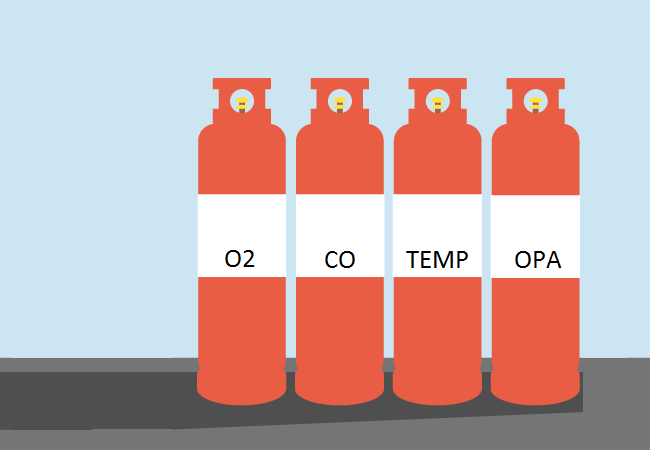
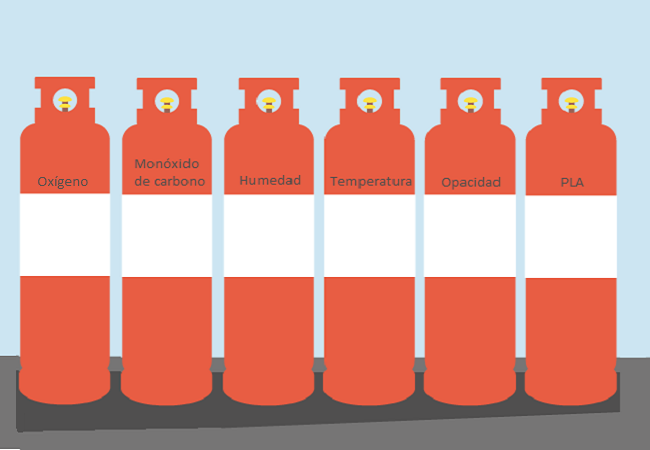
Nueva versión de la app
# Se ha reconstruido la aplicación utilizando una estructura basada en tres frames. La imagen se añade en Canvas para que poder escribir sobre ella con facilidad

#Sin avances en la funcionalidad

#Se modifica la imagen para mostrar más información

diff --git a/TestUI.py b/TestUI.py
@@ -1,50 +1,58 @@
 import minimalmodbus
 from tkinter import *
-from tkinter import ttk, messagebox
+from tkinter import ttk
 import serial.tools.list_ports
 from tkinter import messagebox
 
 
-class BandejasApp():
+class BandejasApp:
 
-    def __init__(self, parent):
-        self.parent = parent
+    def __init__(self):
+        super(BandejasApp, self).__init__()
+        self.parent = Tk()
+        self.parent.resizable(width='false', height='false')
+        self.parent.geometry('1024x600')
+
+        # Añadir Frame para la imagen y colocar imagen
+        # self.bottomframe = Frame(self.parent, height=450, width=650)
+        # self.filename = PhotoImage(file="Gases.png")
+        # self.picture = Label(self.bottomframe, image=self.filename)
+        # self.picture.place(x=0, y=0, relwidth=1, relheight=1)
+        # self.bottomframe.grid(column=3, row=3)
+        # self.bottomframe.pack()
+        self.parent.mainloop()
 
         # Preguntamos por los puertos COM Disponibles
-        ports = serial.tools.list_ports.comports(include_links=False)
-        #TEST
+        ports = serial.tools.list_ports.comports(include_links=FALSE)
+        # TEST
         print(ports)
-
-        # Añadir imagen de fondo a la pantalla
-        self.parent.resizable(width='False', height='False')
-        self.parent.geometry('650x450')
-        self.filename = PhotoImage(file="Gases.png")
-        self.background_label = Label(self.parent, image=self.filename)
-        self.background_label.place(x=0, y=0, relwidth=1, relheight=1)
 
         # Creamos los widgets que forman la UI
         Label(self.parent, text='Puerto').grid(row=0, column=0)
-        Label(self.parent, text='SEN_01').grid(row=2, column=0)
-        Label(self.parent, text='SEN_02').grid(row=3, column=0)
-        Label(self.parent, text='SEN_03').grid(row=4, column=0)
-        Label(self.parent, text='SEN_04').grid(row=5, column=0)
-        Label(self.parent, text='SEN_05').grid(row=6, column=0)
-        Label(self.parent, text='SEN_06').grid(row=7, column=0)
-        Label(self.parent, text='SEN_07').grid(row=8, column=0)
-        Label(self.parent, text='SEN_08').grid(row=9, column=0)
-        Label(self.parent, text='FA_VIS').grid(row=10, column=0)
-        Label(self.parent, text='FAL_AD').grid(row=11, column=0)
-        Label(self.parent, text='FAL_AD_AU').grid(row=12, column=0)
-        Label(self.parent, text='FA_I_1').grid(row=13, column=0)
-        Label(self.parent, text='FA_I_2').grid(row=14, column=0)
-        Label(self.parent, text='FL_VIS').grid(row=15, column=0)
-        Label(self.parent, text='FA_GEN').grid(row=16, column=0)
-        Label(self.parent, text='FA_ASP').grid(row=17, column=0)
-        self.puertos = ttk.Combobox(self.parent, state="readonly")
-        self.puertos["values"] = ports
+        Label(self.parent, text='sen_01').grid(row=2, column=0)
+        Label(self.parent, text='sen_02').grid(row=3, column=0)
+        Label(self.parent, text='sen_03').grid(row=4, column=0)
+        Label(self.parent, text='sen_04').grid(row=5, column=0)
+        Label(self.parent, text='sen_05').grid(row=6, column=0)
+        Label(self.parent, text='sen_06').grid(row=7, column=0)
+        Label(self.parent, text='sen_07').grid(row=8, column=0)
+        Label(self.parent, text='sen_08').grid(row=9, column=0)
+        Label(self.parent, text='fa_vis').grid(row=10, column=0)
+        Label(self.parent, text='fal_ad').grid(row=11, column=0)
+        Label(self.parent, text='fal_ad_au').grid(row=12, column=0)
+        Label(self.parent, text='fa_i_1').grid(row=13, column=0)
+        Label(self.parent, text='fa_i_2').grid(row=14, column=0)
+        Label(self.parent, text='fl_vis').grid(row=15, column=0)
+        Label(self.parent, text='fa_gen').grid(row=16, column=0)
+        Label(self.parent, text='fa_asp').grid(row=17, column=0)
+
+        self.combo1 = ttk.Combobox(self.parent, state="readonly")
+        self.combo1["values"] = ports
+
         # for x in ports:
         #    self.puertos.insert(END, x)
-        self.puertos.grid(row=0, column=1)
+
+        self.combo1.grid(row=0, column=1)
         Label(self.parent, text='Esclavo').grid(row=0, column=2)
         self.parent.ent2 = Entry(self.parent)
         self.parent.ent2.grid(row=0, column=3)
@@ -52,16 +60,14 @@ class BandejasApp():
         self.conn_button.grid(row=0, column=4)
         self.parent.grid()
 
-
     def conect(self):
-        '''
-       Creacion de la comunicación RTU y se mantendrá abierta hasta
-       que se cierre la aplicación
-       '''
-        #guardo sólo la primera palabra del string
-        puerto = str(self.puertos.get()).split()[0]
+        # Creacion de la comunicación RTU y se mantendrá abierta hasta
+        # que se cierre la aplicación
+
+        # guardo sólo la primera palabra del string
+        puerto = str(self.combo1.get()).split()[0]
         slave = int(self.parent.ent2.get())
-        #TEST
+        # TEST
         print(puerto, "  ", slave)
         self.instrument = minimalmodbus.Instrument(puerto, slave, mode='rtu')
         self.instrument.serial.baudrate = 9600  # Baud
@@ -70,29 +76,29 @@ class BandejasApp():
         self.instrument.serial.stopbits = 1
         self.instrument.close_port_after_each_call = FALSE
         self.refresh_data()
-        #datum=[SEN_01, SEN_02, SEN_03, SEN_04, SEN_05, SEN_06, SEN_07, SEN_08, SEN_FA_VIS, SEN_FAL_AD, SEN_FAL_AD_AU, SEN_FA_I_1, SEN_FA_I_2, SEN_FL_VIS, SEN_FA_GEN, SEN_FA_ASP]
+        # datum=[sen_01, sen_02, sen_03, sen_04, sen_05, sen_06, sen_07, sen_08, sen_fa_vis, sen_faL_AD, sen_faL_AD_AU, sen_fa_I_1, sen_fa_I_2, sen_fl_vis, sen_fa_gen, sen_fa_asp]
 
     def refresh_data(self):
 
         print("Dentro de la función de lectura de datos")
-        SEN_01 = self.leer_registro(4096, 0, 4)  # Read Analog Input Register (HR)
-        SEN_02 = self.leer_registro(4097, 0, 4)
-        SEN_03 = self.leer_registro(4098, 0, 4)
-        SEN_04 = self.leer_registro(4099, 0, 4)
-        SEN_05 = self.leer_registro(4100, 0, 4)
-        SEN_06 = self.leer_registro(4101, 0, 4)
-        SEN_07 = self.leer_registro(4102, 0, 4)
-        SEN_08 = self.leer_registro(4103, 0, 4)
-        FA_VIS = self.leer_registro(4352, 0, 4)
-        FAL_AD = self.leer_registro(4353, 0, 4)
-        FAL_AD_AU = self.leer_registro(4354, 0, 4)
-        FA_I_1 = self.leer_registro(4355, 0, 4)
-        FA_I_2 = self.leer_registro(4356, 0, 4)
-        FL_VIS = self.leer_registro(4357, 0, 4)
-        FA_GEN = self.leer_registro(4358, 0, 4)
-        FA_ASP = self.leer_registro(4359, 0, 4)
-        print(SEN_01, SEN_02, SEN_03, SEN_04, SEN_05, SEN_06, SEN_07, SEN_08, FA_VIS, FAL_AD,
-        FAL_AD_AU, FA_I_1, FA_I_2, FL_VIS, FA_GEN, FA_ASP)
+        sen_01 = self.leer_registro(4096, 0, 4)  # Read Analog Input Register (HR)
+        sen_02 = self.leer_registro(4097, 0, 4)
+        sen_03 = self.leer_registro(4098, 0, 4)
+        sen_04 = self.leer_registro(4099, 0, 4)
+        sen_05 = self.leer_registro(4100, 0, 4)
+        sen_06 = self.leer_registro(4101, 0, 4)
+        sen_07 = self.leer_registro(4102, 0, 4)
+        sen_08 = self.leer_registro(4103, 0, 4)
+        fa_vis = self.leer_registro(4352, 0, 4)
+        fal_ad = self.leer_registro(4353, 0, 4)
+        fal_ad_au = self.leer_registro(4354, 0, 4)
+        fa_i_1 = self.leer_registro(4355, 0, 4)
+        fa_i_2 = self.leer_registro(4356, 0, 4)
+        fl_vis = self.leer_registro(4357, 0, 4)
+        fa_gen = self.leer_registro(4358, 0, 4)
+        fa_asp = self.leer_registro(4359, 0, 4)
+        print(sen_01, sen_02, sen_03, sen_04, sen_05, sen_06, sen_07, sen_08, fa_vis, fal_ad,
+              fal_ad_au, fa_i_1, fa_i_2, fl_vis, fa_gen, fa_asp)
 
     def leer_registro(self, reg, dec, fun):
 
@@ -102,7 +108,5 @@ class BandejasApp():
         except IOError:
             messagebox.showinfo("Algo ha ido mal al leer el registro: ", reg)
 
-if __name__ == '__main__':
-    root = Tk()
-    app = BandejasApp(root)
-    root.mainloop()
+
+app = BandejasApp()

diff --git a/bandejas_app.py b/bandejas_app.py
@@ -1,0 +1,137 @@
+from tkinter import *
+import minimalmodbus
+import serial.tools.list_ports
+from tkinter import ttk
+import tkinter as tk
+from tkinter import messagebox
+
+class bandejas_app():
+
+	def __init__(self):
+		super(bandejas_app, self).__init__()
+		self.main_window = Tk()
+		self.main_window.resizable(width='FALSE', height='FALSE')
+		#self.main_window.geometry('1024x600')
+		self.frame1 = Frame(self.main_window, bg='grey', padx=5, pady=5, height=45, width=1024)
+		self.frame2 = Frame(self.main_window, bg='grey', padx=5, pady=5)
+		self.frame3 = Frame(self.main_window, bg='grey', padx=5, pady=5, height=450, width=650)
+		
+		# Preguntamos por los puertos COM Disponibles
+		ports = serial.tools.list_ports.comports(include_links=FALSE)
+		# TEST
+		print(ports)
+
+		# Creamos los widgets que forman el frame1
+		Label(self.frame1, text='Puerto', bg="grey").grid(row=0, column=0)
+		self.combo1 = ttk.Combobox(self.frame1, state="readonly")
+		self.combo1["values"] = ports
+		self.combo1.grid(row=0, column=1)
+		Label(self.frame1, text='Esclavo', bg="grey").grid(row=0, column=2)
+		self.ent2 = Entry(self.frame1)
+		self.ent2.grid(row=0, column=3)
+		self.conn_button = Button(self.frame1, text='Conectar', command=self.conect)
+		self.conn_button.grid(row=0, column=4)
+
+        # Creamos los widgets que forman el frame2
+		self.b_sen01 = Label(self.frame2, text='sen_01', width=10)
+		self.b_sen01.grid(row=2, column=0)
+		self.b_sen02 = Label(self.frame2, text='sen_02', width=10)
+		self.b_sen02.grid(row=3, column=0)
+		self.b_sen03 = Label(self.frame2, text='sen_03', width=10)
+		self.b_sen03.grid(row=4, column=0)
+		self.b_sen04 = Label(self.frame2, text='sen_04', width=10)
+		self.b_sen04.grid(row=5, column=0)
+		self.b_sen05 = Label(self.frame2, text='sen_05', width=10)
+		self.b_sen05.grid(row=6, column=0)
+		self.b_sen06 = Label(self.frame2, text='sen_06', width=10)
+		self.b_sen06.grid(row=7, column=0)
+		self.b_sen07 = Label(self.frame2, text='sen_07', width=10)
+		self.b_sen07.grid(row=8, column=0)
+		self.b_sen08 = Label(self.frame2, text='sen_08', width=10)
+		self.b_sen08.grid(row=9, column=0)
+		self.b_fa_vis = Label(self.frame2, text='fa_vis', width=10)
+		self.b_fa_vis.grid(row=10, column=0)
+		self.b_fal_ad = Label(self.frame2, text='fal_ad', width=10)
+		self.b_fal_ad.grid(row=11, column=0)
+		self.b_fal_ad_au = Label(self.frame2, text='fal_ad_au', width=10)
+		self.b_fal_ad_au.grid(row=12, column=0)
+		self.b_fa_i_1 = Label(self.frame2, text='fa_i_1', width=10)
+		self.b_fa_i_1.grid(row=13, column=0)
+		self.b_fa_i_2 = Label(self.frame2, text='fa_i_2', width=10)
+		self.b_fa_i_2.grid(row=14, column=0)
+		self.b_fl_vis = Label(self.frame2, text='fl_vis', width=10)
+		self.b_fl_vis.grid(row=15, column=0)
+		self.b_fa_gen = Label(self.frame2, text='fa_gen', width=10)
+		self.b_fa_gen.grid(row=16, column=0)
+		self.b_fa_asp = Label(self.frame2, text='fa_asp', width=10)
+		self.b_fa_asp.grid(row=17, column=0)
+
+		#Creamos los widgets que forman el frame3
+		self.filename = PhotoImage(file="Gases.png")
+		self.cv = tk.Canvas(self.frame3, width=650, height=450)
+		self.cv.create_image(0,0, anchor=tk.NW, image=self.filename)
+		self.cv.create_text(65,  235, text="Oxígeno")
+		self.cv.create_text(165,  235, text="Monóxido")
+		self.cv.create_text(265,  235, text="Humedad")
+		self.cv.create_text(365,  235, text="Temperatura")
+		self.cv.create_text(465,  235, text="Opacidad")
+		self.cv.create_text(565,  235, text="PLA")
+		self.cv.pack()
+
+		self.frame1.pack(side=TOP, fill=X)
+		self.frame2.pack(side=LEFT, fill=Y)
+		self.frame3.pack(side=RIGHT)
+		self.main_window.mainloop()
+
+	def conect(self):
+		# Creacion de la comunicación RTU y se mantendrá abierta hasta
+		# que se cierre la aplicación
+
+		# guardo sólo la primera palabra del string
+		puerto = str(self.combo1.get()).split()[0]
+		slave = int(self.ent2.get())
+
+		# TEST
+		print(puerto, "  ", slave)
+		self.instrument = minimalmodbus.Instrument(puerto, slave, mode='rtu')
+		self.instrument.serial.baudrate = 1200  # Baud
+		self.instrument.serial.bytesize = 8
+		self.instrument.serial.parity = minimalmodbus.serial.PARITY_NONE
+		self.instrument.serial.stopbits = 1
+		self.instrument.close_port_after_each_call = FALSE
+		self.conn_button.configure(state="pressed")
+		self.refresh_data()
+
+	def refresh_data(self):
+		"""Función de refresco de datos"""
+
+		print("Dentro de la función de lectura de datos")
+		sen_01 = self.leer_registro(4096, 0, 4)  # Read Analog Input Register (HR)
+		sen_02 = self.leer_registro(4097, 0, 4)
+		sen_03 = self.leer_registro(4098, 0, 4)
+		sen_04 = self.leer_registro(4099, 0, 4)
+		sen_05 = self.leer_registro(4100, 0, 4)
+		sen_06 = self.leer_registro(4101, 0, 4)
+		sen_07 = self.leer_registro(4102, 0, 4)
+		sen_08 = self.leer_registro(4103, 0, 4)
+		fa_vis = self.leer_registro(4352, 0, 4)
+		fal_ad = self.leer_registro(4353, 0, 4)
+		fal_ad_au = self.leer_registro(4354, 0, 4)
+		fa_i_1 = self.leer_registro(4355, 0, 4)
+		fa_i_2 = self.leer_registro(4356, 0, 4)
+		fl_vis = self.leer_registro(4357, 0, 4)
+		fa_gen = self.leer_registro(4358, 0, 4)
+		fa_asp = self.leer_registro(4359, 0, 4)
+		print(sen_01, sen_02, sen_03, sen_04, sen_05, sen_06, sen_07, sen_08, fa_vis, fal_ad,
+		      fal_ad_au, fa_i_1, fa_i_2, fl_vis, fa_gen, fa_asp)
+
+	def leer_registro(self, reg, dec, fun):
+		"""función para lectura de datos"""
+
+		try:
+		    value = self.instrument.read_register(reg, dec, fun)
+		    return value
+		except IOError:
+		    messagebox.showinfo("Información", "Algo ha ido mal al leer el registro: {}".format(reg))
+
+app = bandejas_app()
